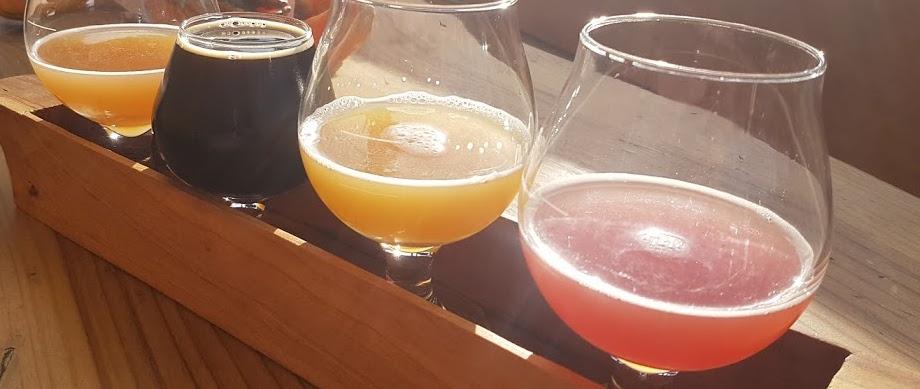
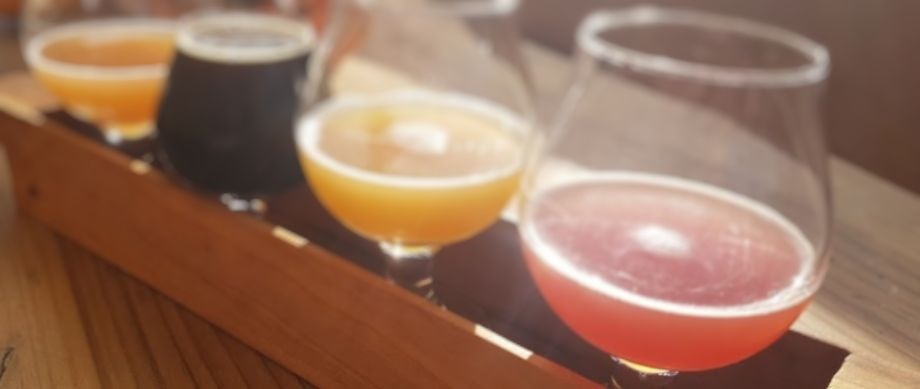
Add styling tweaks and blur user profile background image

diff --git a/frontend/components/navbar/searchbar.jsx b/frontend/components/navbar/searchbar.jsx
@@ -19,7 +19,8 @@ class SearchBar extends React.Component {
     constructor(props) {
         super(props);
         this.state = {
-            query: ""
+            query: "",
+            value: ""
         };
 
         this.handleSubmit = this.handleSubmit.bind(this).myDebounce(500);
@@ -43,23 +44,30 @@ class SearchBar extends React.Component {
     handleChange(e) {
         let val = e.currentTarget.value;
         this.setState({
+            value: val,
             query: val
         }, this.handleSubmit);
     }
 
     handleSubmit() {
-        this.props.fetchResults(this.state.query)
+        this.props.fetchResults(this.state.query);
+        this.setState({
+            val: ""
+        });
     }
 
     resetSearch() {
-        this.props.fetchResults("")
+        this.props.fetchResults("");
+        this.setState({
+            val: ""
+        });
     }
 
     render() {
         return(
             <div>
                 <div className="searchbar-input-container">
-                    <input className="searchbar-input" onChange={this.handleChange} placeholder="Find a beer..."></input><p className="search-magnify"><i className="fas fa-search"></i></p>
+                    <input className="searchbar-input" onChange={this.handleChange} value={this.state.value} placeholder="Find a beer..."></input><p className="search-magnify"><i className="fas fa-search"></i></p>
                     <div className="searchbar-dropdown">
                         <ul className="searchbar-ul" onClick={this.resetSearch}>
                             {this.props.results.map((result, i) => {

diff --git a/app/assets/stylesheets/components/_checkin_modal.scss b/app/assets/stylesheets/components/_checkin_modal.scss
@@ -87,8 +87,8 @@
     display: inline-block;
     border: 1px solid #ccc;
     border-radius: 3px;
-    max-width: 80%;
-    min-width: 80%;
+    max-width: 78%;
+    min-width: 78%;
     max-height: 80px;
     min-height: 80px;
     box-sizing: border-box;
@@ -127,7 +127,7 @@
   text-align: center;
   font-size: 46px;
   margin-top: 10px;
-  margin-right: 10px;
+
 }
 
 .fa-camera {
